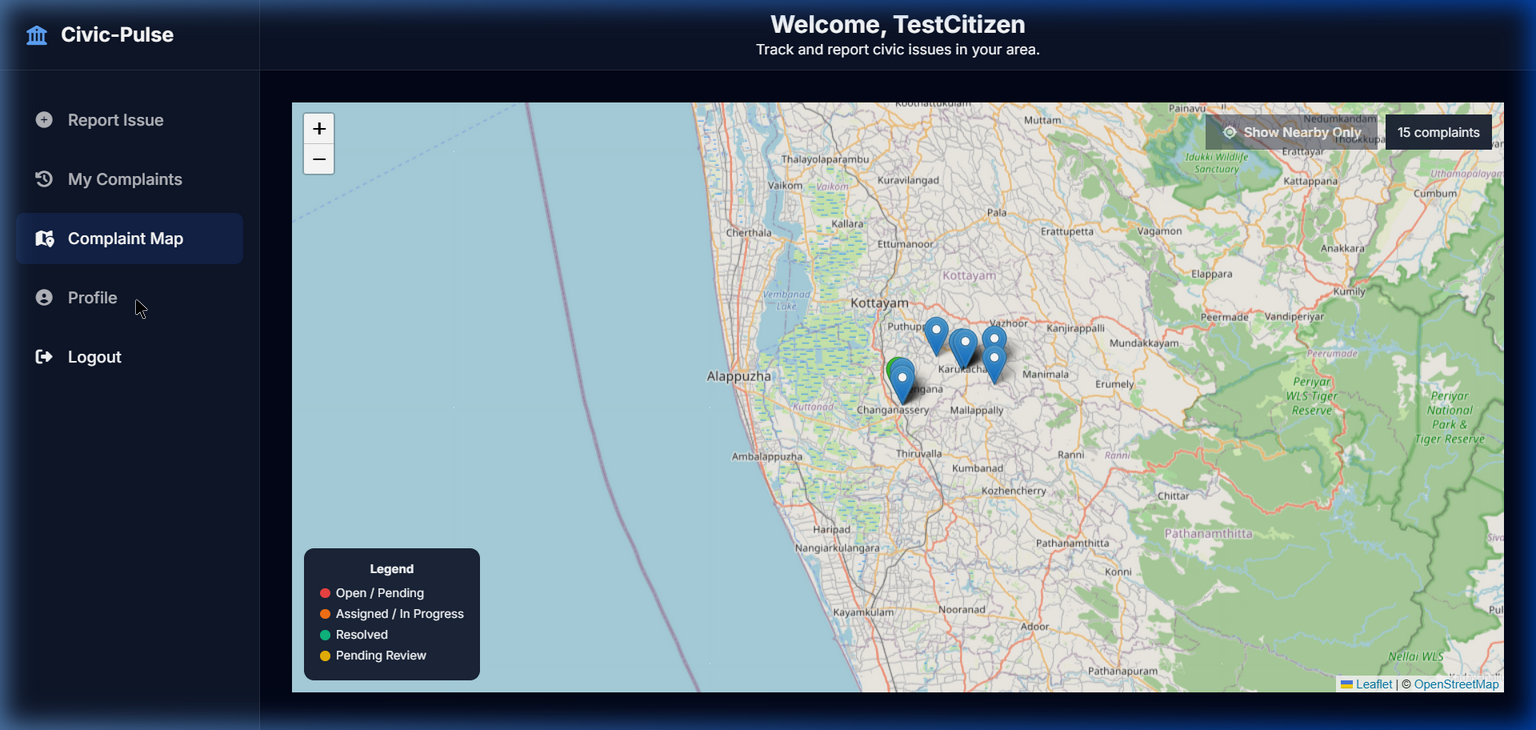
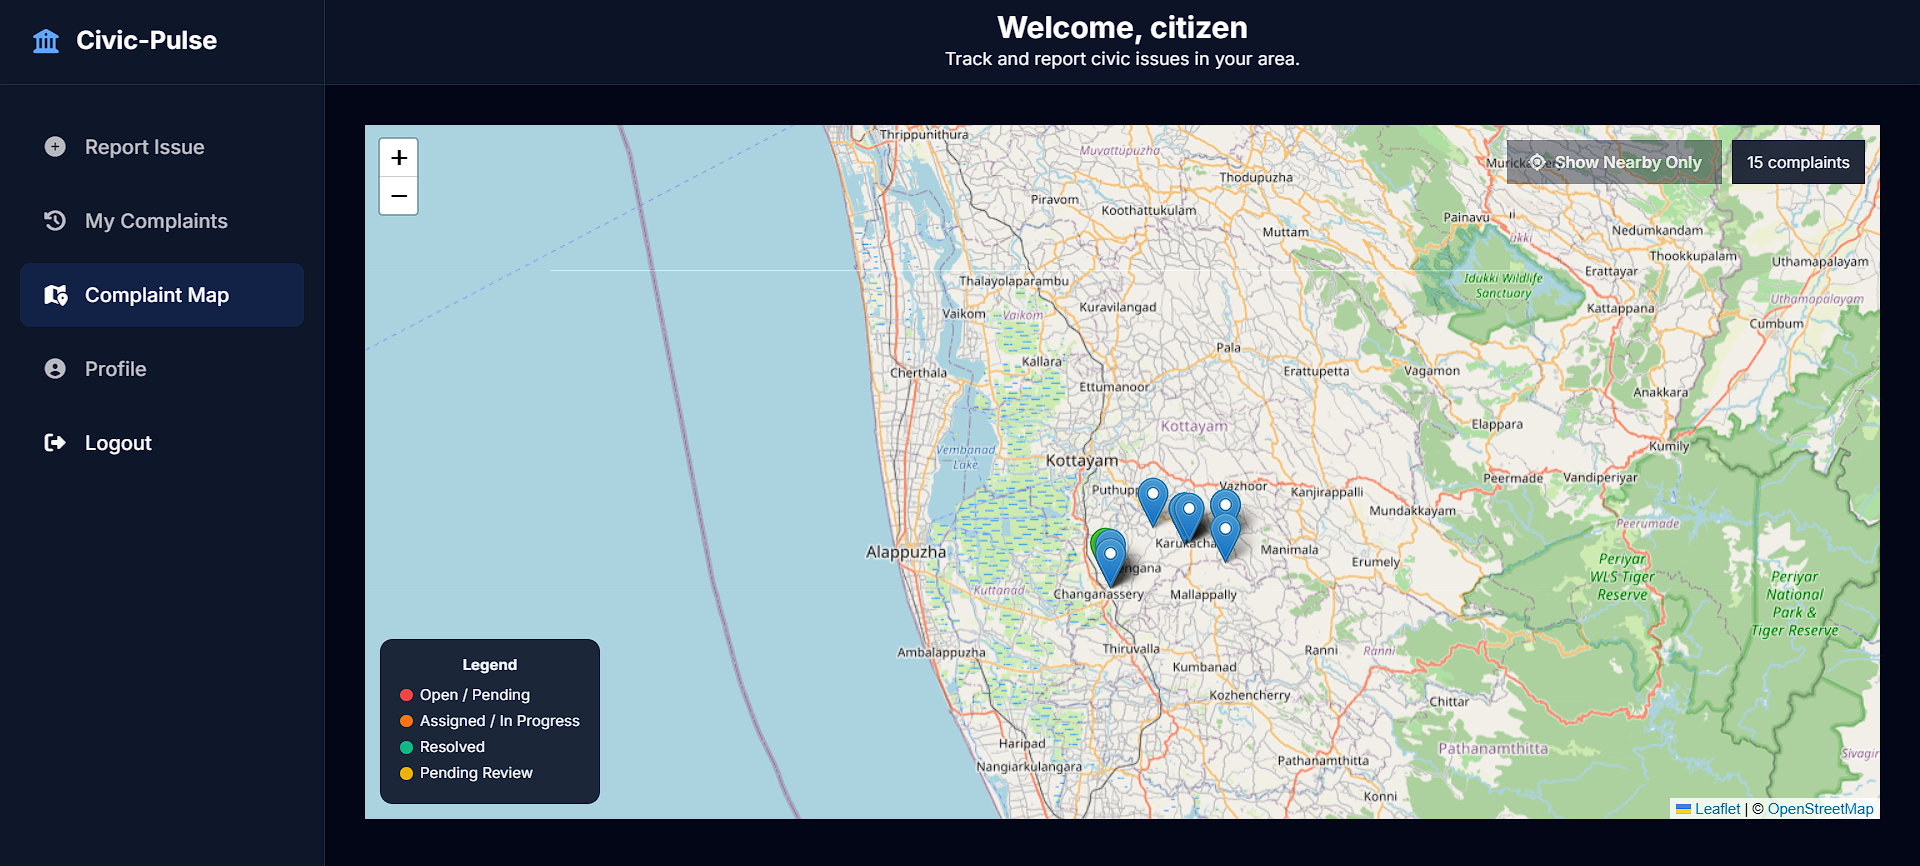
Finalize project documentation and update asset images

diff --git a/README.md b/README.md
@@ -20,12 +20,17 @@ Centralizes civic issue reporting, intelligent AI-based image triage, geospatial
 ![Citizen Map View](assets/citizen_map.png)
 *Interactive map with status-coded complaint pins allowing citizens to track neighborhood issues.*
 
-### Officer Performance Analytics
+### Officer Performance
 ![Officer Analytics Page](assets/officer_analytics.png)
 *Departmental efficiency metrics showing resolution rates, SLA tracking, and timeline statistics.*
 
-- **Field Worker Interface** – Task queues, priority flags, and status updates
-- **Admin Heatmaps** – City-wide visualization of high-frequency complaint zones
+### Field Worker Interface
+![Field Worker Interface](assets/field_operations.png)
+*Task queues, priority flags, and status updates.*
+
+### Admin Heatmaps
+![Admin Heatmaps](assets/admin_heatmap.png)
+*City-wide visualization of high-frequency complaint zones*
 
 ---
 
